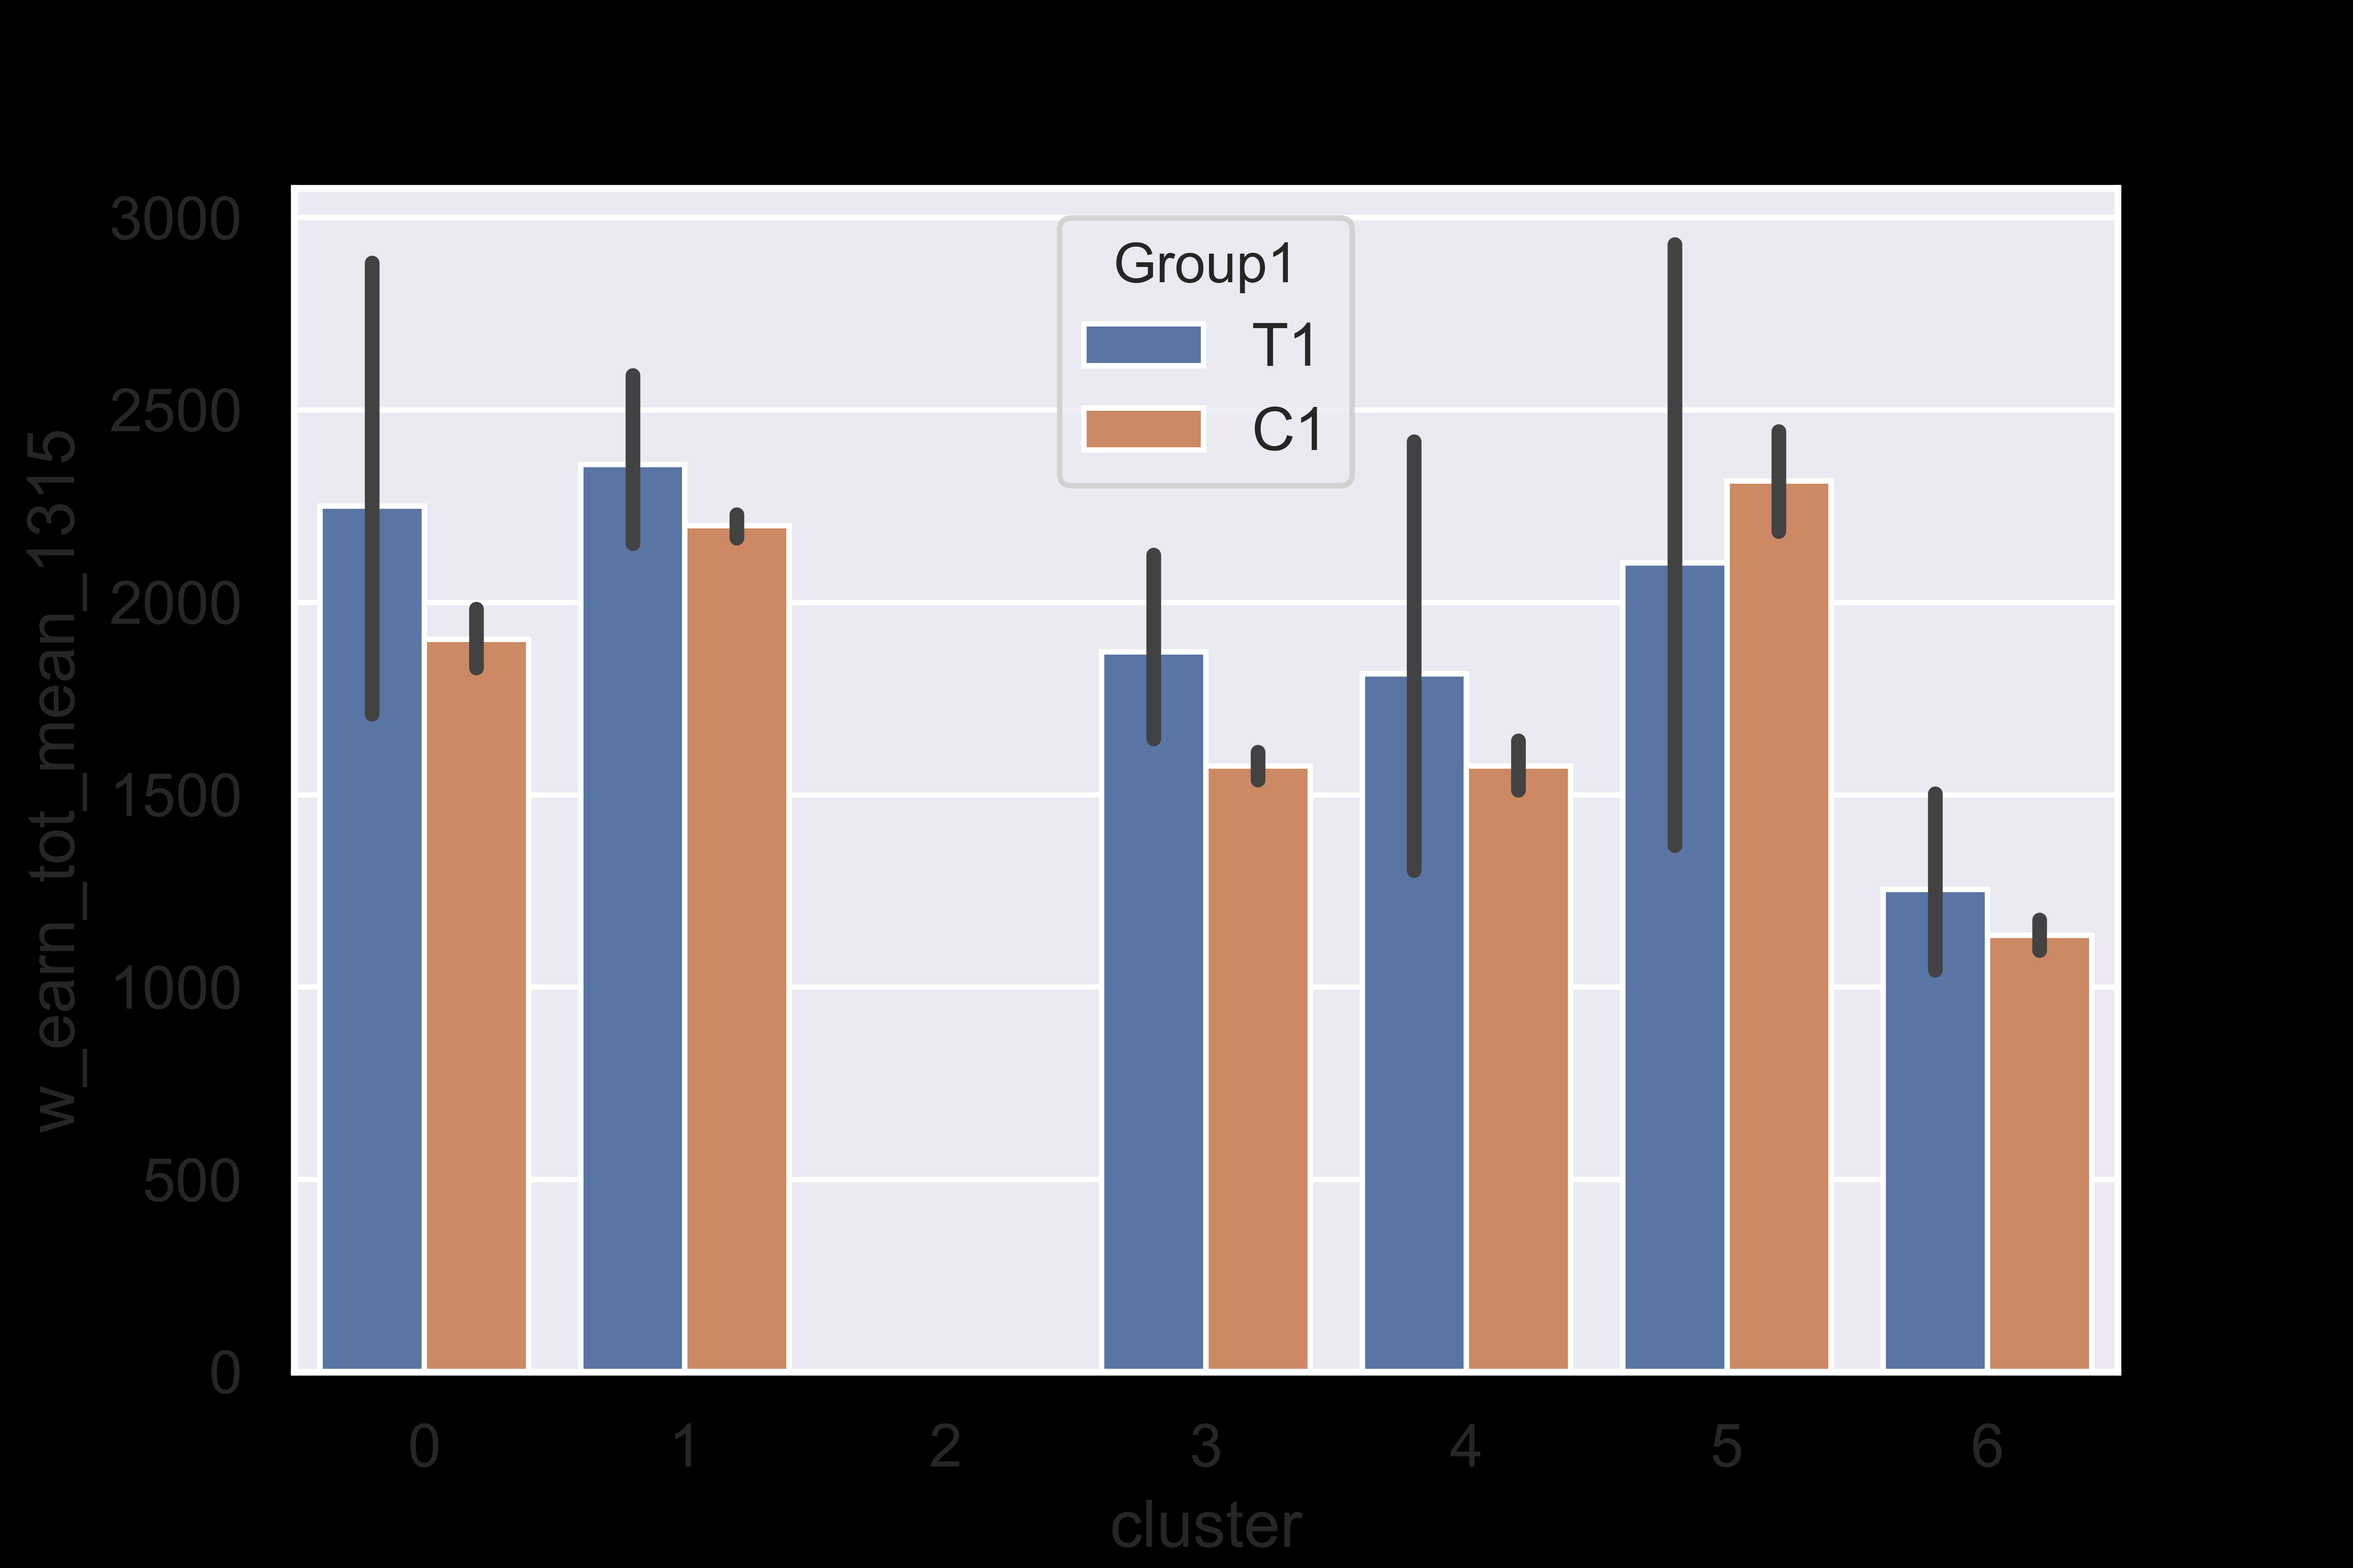
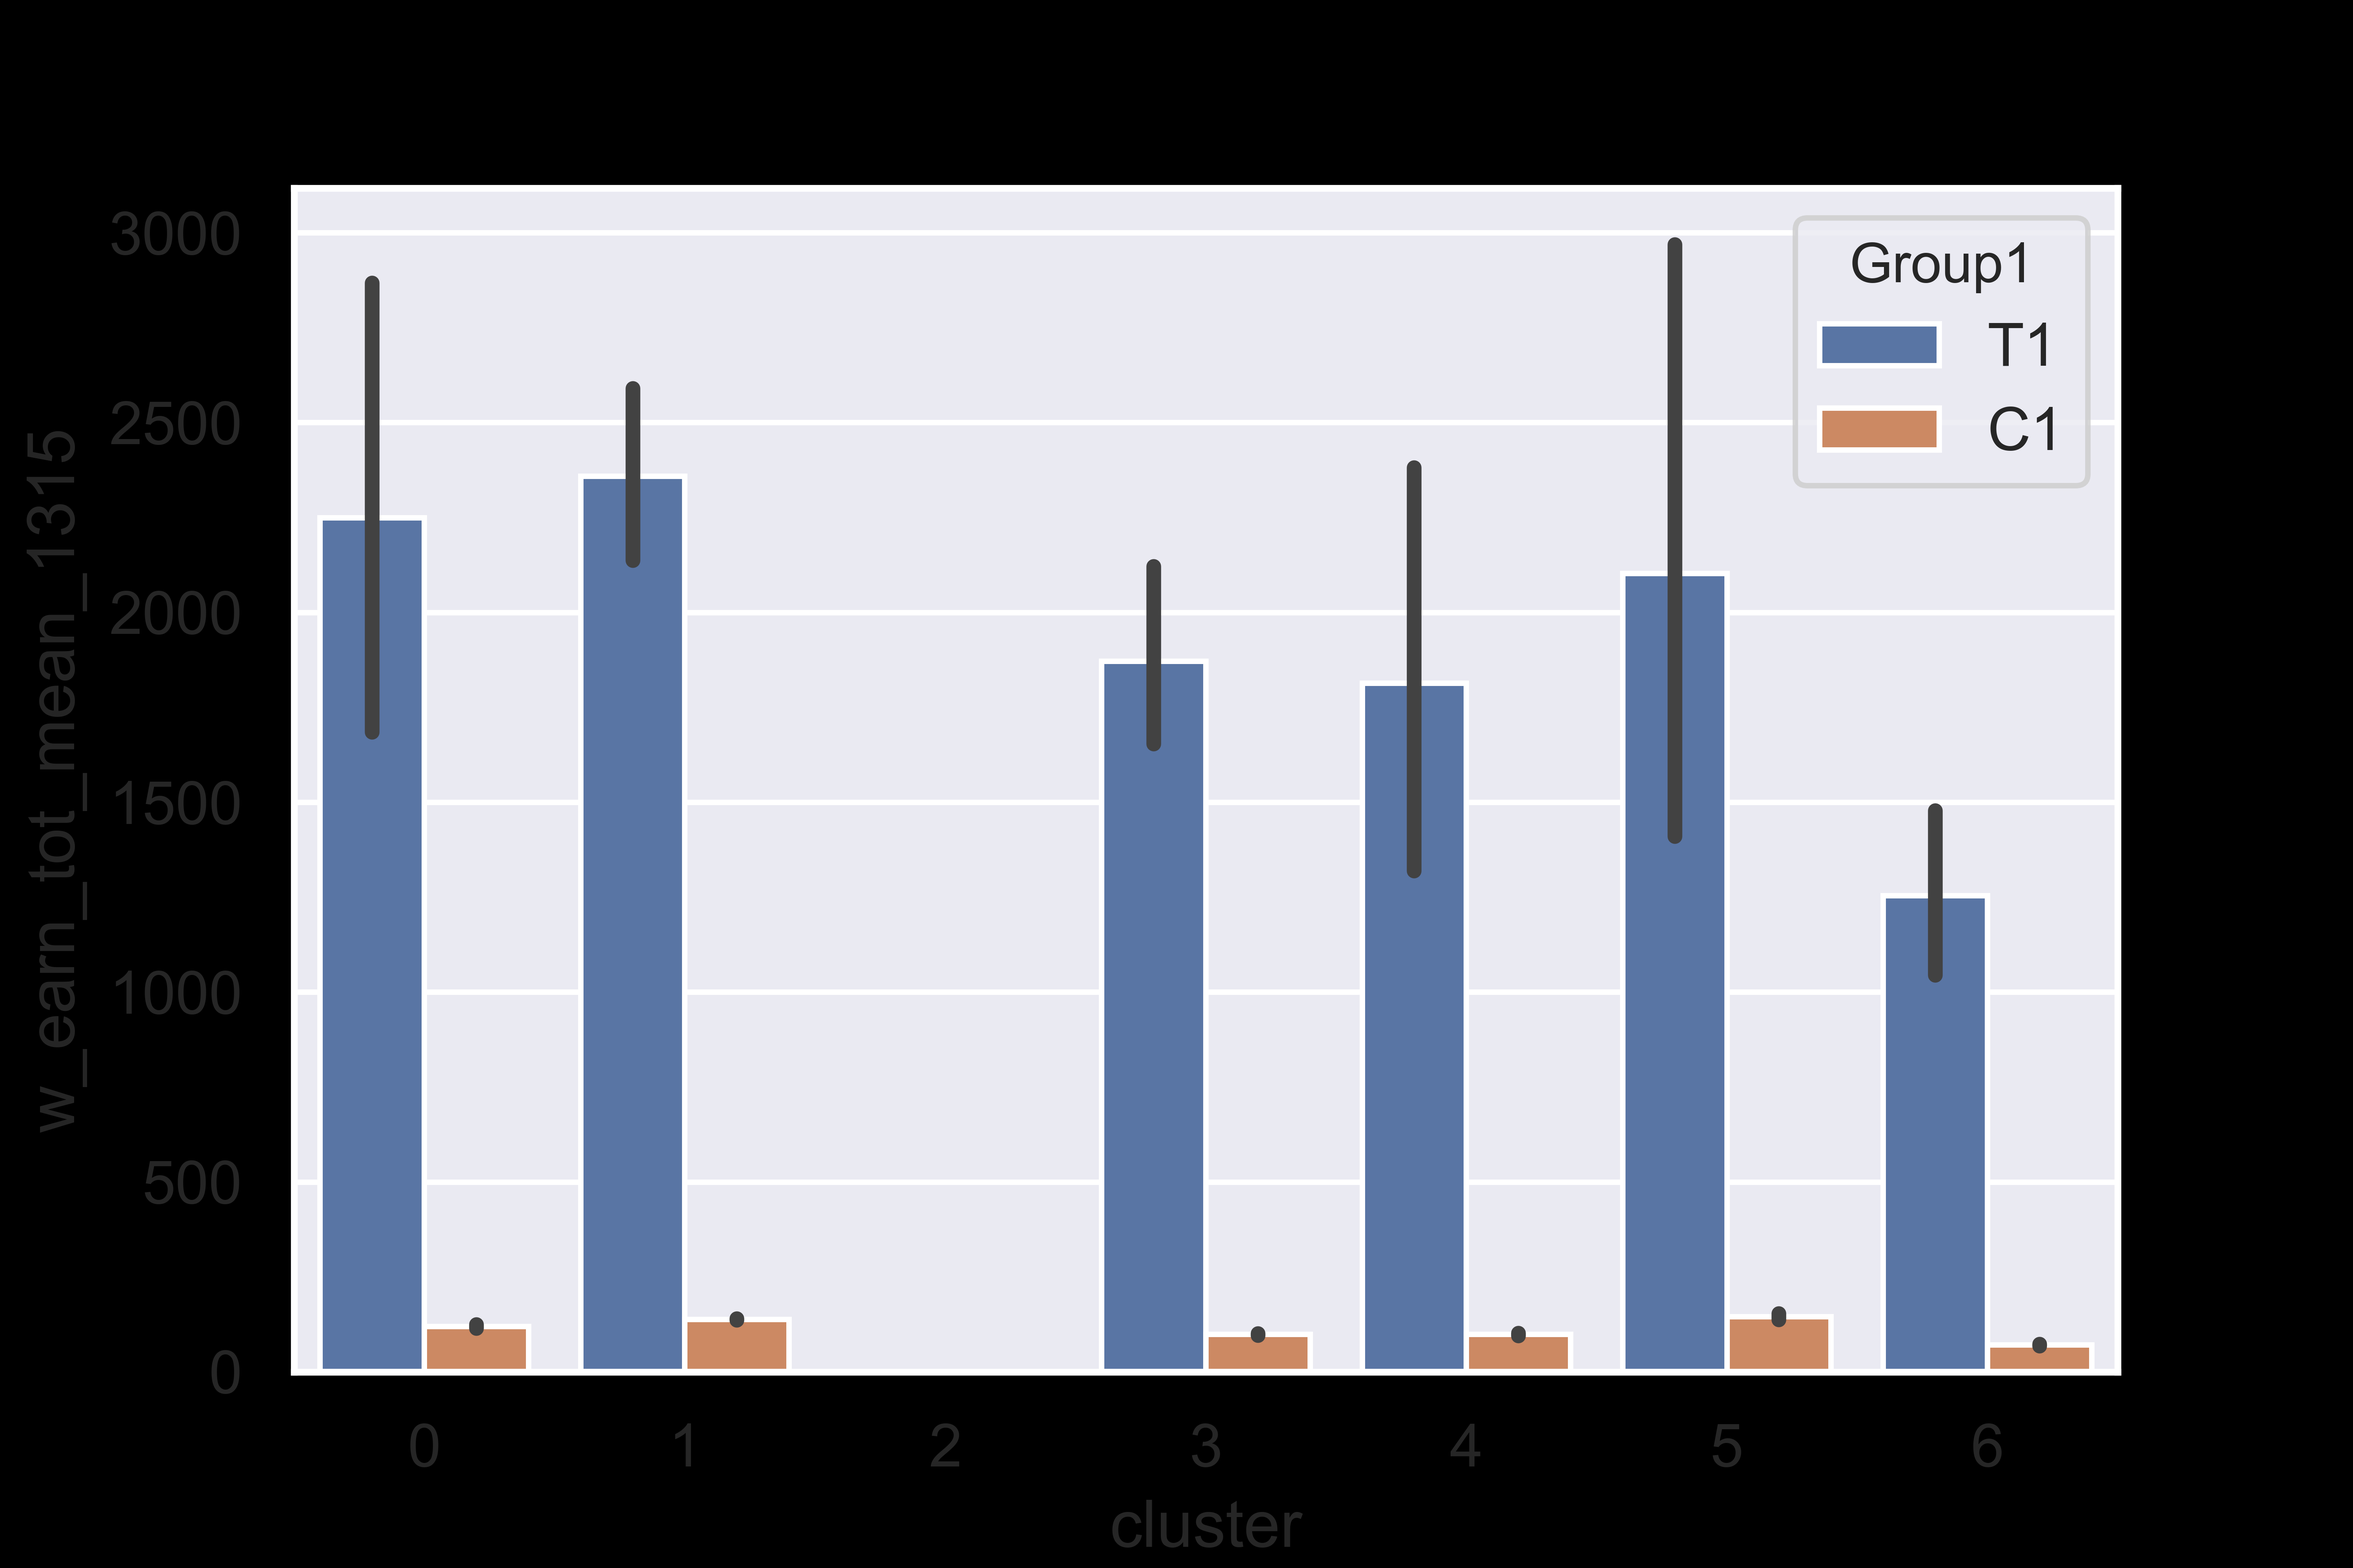
Now produces weighting for all periods

diff --git a/weighting.py b/weighting.py
@@ -1,5 +1,3 @@
-
-
 # %%
 from datetime import datetime
 
@@ -10,6 +8,8 @@ import pandas as pd
 import seaborn as sns  # package for plotting
 from IPython.display import HTML, display  # Make tables pretty
 
+from scipy import stats
+
 sns.set()
 
 
@@ -17,7 +17,7 @@ sns.set()
 # ## Import outcomes dataset and tidy up
 
 # %%
-df = pd.read_csv("jp_outcomes.zip")
+df = pd.read_csv("data/jp_outcomes.zip")
 
 
 # %%
@@ -32,145 +32,130 @@ for col in df.select_dtypes(include=numerics).columns:
 
 # %%
 # Tidy up T and C columns to make processing easier
+# Need to use multiindex!
 periods = []
 for i in range(1, 9):
-    this_period = 'period_'+str(i)
-    df[this_period] = df['Group'+str(i)].str[:1]
+    this_period = "period_" + str(i)
+    df[this_period] = df["Group" + str(i)].str[:1]
     periods.append(this_period)
 
 # Eliminate earlier T people from later period C
 for i in range(1, 9):
-    for j in range(i+1, 9):
-        df['period_'+str(j)].loc[df['period_'+str(i)] == 'T'] = 0
+    for j in range(i + 1, 9):
+        df["period_" + str(j)].loc[df["period_" + str(i)] == "T"] = 0
+
+# %%
+df.head()
+
+# %%
+# Remove outliers
+numeric_cols = [
+    col for col in df.columns.tolist() if col.startswith(("earn_", "sw_pay_"))
+]
+
+# df1 = df[(np.abs(stats.zscore(df[numeric_cols])) < 5).all(axis=1)]
 
 # %% [markdown]
 # ## Look - a group triangle!
 
 # %%
-grouped = df.groupby(periods)['id'].count()
+grouped = df.groupby(periods)["id"].count()
 grouped.sort_index(ascending=False, inplace=True)
 grouped
 
 
 # %% [markdown]
 # ## Add weights
-
+# This is just a global sort but needs to be replaced by a per-group classification function
+# called at the start of the binning/weighting code
 
 # %%
-# def create_ranks (df, sorting_function):
-"""
-Adds a ranking column to a dataframe based on a sorting function
-
-Given a ranking function and a dataframe with the columns needed for that
-ranking function, this function returns a ranking of all the rows.
-
-Parameters
-----------
-df : DataFrame
-    Dataframe with unique index and columns needed for rank_function
-sorting_function : function
-    A sorting algorithm which returns a sorted version of a given dataframe
-
-Returns
--------
-rank : Series
-    A pandas series with a unique rank for every row in df
-
-See Also
---------
-# List ranking algorithms here!
-
-"""
-# # do the actual stuff
-df = df.set_index([
-    # 'cluster',
-    'earn_tot_mean_1315',
-    'duration_days_0',
-    'id'])
+# Sort all records
+df = df.set_index(
+    [
+        # 'cluster',
+        "earn_tot_mean_1315",
+        "sw_pay_mean_1315",
+        "duration_days_0",
+        "id",
+    ]
+)
 df.sort_index(inplace=True)
 df.reset_index(inplace=True)
-df.index.name = 'rank'
+df.index.name = "rank"
 # # np.sum(df1.index.duplicated())
 df.reset_index(inplace=True)
-df.set_index('id', inplace=True)
-
-# return rank
+df.set_index("id", inplace=True)
 
 # %%
-# def create_bins (df, bin_method, bin_size, bin_number):
-"""
-Assigns records to bins, given a ranking and specified number or size of bins
+def add_weights(df, period):
+    # 1. Create scores
+    # Currently done above with global ranks but need to replace
 
+    # 2. Create bins based on scores
+    # Create a temporary df for T and C groups
+    df_T = df.loc[df[period] == "T"].copy()
+    df_C = df.loc[df[period] == "C"].copy()
 
+    # Split T group into equal sized bins
+    df_T["bin"], bins = pd.qcut(df_T["rank"], 100, retbins=True, labels=False)
 
-Parameters
-----------
-df: DataFrame
-    Must have T vs C column and ranks
-bin_method: String
-    "size" or "count"
-bin_size: int
-    Max or min?
-bin_count: int
-    Max or min
+    # Put C group into T bins based on T bin edges
+    df_C["bin"] = pd.cut(df_C["rank"], bins, labels=range(len(bins) - 1))
 
+    # Exclude unassigned C group members to eliminate outliers
+    df_C = df_C.dropna(subset=["bin"])
+    df_C["bin"] = df_C["bin"].astype("int")
 
-Returns
--------
-bin_col: Series
+    # 3. Add weights based on bins
+    # Create counts for T and C by bin
+    t_bin_counts = pd.Series(df_T.groupby("bin")["rank"].count(), name="t_bin_counts")
+    c_bin_counts = pd.Series(df_C.groupby("bin")["rank"].count(), name="c_bin_counts")
+    bin_counts = pd.concat([t_bin_counts, c_bin_counts], axis="columns")
 
-"""
-# # do the actual stuff
+    # Divide T by C to get weights for C group
+    bin_counts["abs_weight"] = bin_counts["t_bin_counts"] / bin_counts["c_bin_counts"]
+    c_total = df_C.shape[0]
+    t_total = df_T.shape[0]
+    bin_counts["weight"] = bin_counts["abs_weight"] * c_total / t_total
+
+    # All Ts have weight = 1
+    df_T["weight"] = 1
+    df_T["abs_weight"] = 1
+
+    # Assign C weights based on weights in bin_counts dataframe
+    # Have to reset and then set index to avoid losing it!
+    df_C = df_C.reset_index()
+    df_C = df_C.merge(bin_counts[["abs_weight", "weight"]], how="inner", on="bin")
+    df_C = df_C.set_index('id')
+
+    # Append T and C dataframes together
+    out_df = df_T.append(df_C)
+    out_df = out_df[["weight", "abs_weight"]]
+
+    return out_df
 
 # %%
-df_T = df.loc[df["Group1"] == "T1"].copy()
-df_C = df.loc[df["Group1"] == "C1"].copy()
+for period in periods:
+    w_df = add_weights(df, period)
+    w_df.columns = [period + '__' + str(col) for col in w_df.columns]
+    df = pd.concat([df, w_df], axis='columns')
 
-df_T["t_centile"], bins = pd.qcut(
-    df_T["rank"], 100, retbins=True, labels=False)
+df.info(verbose=True)
 
-df_C["t_centile"] = pd.cut(df_C["rank"], bins, labels=range(len(bins) - 1))
-# return bin_col
+# %%
+grouped = df.groupby(periods)["rank"].count()
+grouped.sort_index(ascending=False, inplace=True)
+grouped
 
-
-# def add_weights ()
-"""Create T, C, and X groups for all periods
-# In:       Whatever we've got already
-# Out:     [periods (1, 0, -)]
-
-
-# def get_weights_all_periods:
-# In:       df [periods] [weighting cols] weighting_score_fn, bin_fn
-# Out:     [period weight columns]
-
-# def get_weights:
-# In:      period, [weighting_cols], weighting_score_fn, bin_fn
-# Out:     weight, t_bin
-
-"""
-# 	1. Create ranks
-# 	2. Create T and C bins based on ranks
-# 	3. Add weights
-t_count = df_T["t_centile"].count()
-t_centile_weights = df_T.groupby(["t_centile"])[
-    "rank"].count().divide(t_count)
-df_T["weight"] = 1
-c_count = df_C["t_centile"].count()
-
-c_t_centile_weights = df_C.groupby(
-    ["t_centile"])["t_centile"].count().divide(c_count)
-c_weights = t_centile_weights / c_t_centile_weights
-df_C["weight"] = df_C["t_centile"].map(c_weights)
-
-df = df_T.append(df_C)
+# %%
+for period in periods:
+    aw_col = period + '__abs_weight'
+    print(df.groupby(period)[aw_col].sum())
 
 # %% [markdown]
 # ## Create weighted versions of background and outcome columns
 # %%
-numeric_cols = [
-    col for col in df.columns.tolist() if col.startswith(("earn_", "sw_pay_"))
-]
-
 for col in numeric_cols:
     df["w_" + col] = df[col] * df["weight"]
 
@@ -204,14 +189,6 @@ df["w_impact_income_diff"] = df["w_income_diff"] - df["income_diff"]
 # %% [markdown]
 # ## Descriptive statistics
 
-# %%
-# import sklearn.cross_validation.Bootstrap as bootstrap
-# import scipy
-# for col in w_numeric_cols:
-#     print(col,
-#     df.groupby('Group1')[col].apply(
-#         lambda x:bootstrap.ci(data=x, statfunction=scipy.mean)))
-
 # %% [markdown]
 # ### Weighting impact
 
@@ -222,9 +199,9 @@ df[["w_impact_sw_pay_mean_1315", "w_impact_earn_tot_mean_1315"]].hist(
 
 # %%
 f, ax = plt.subplots(dpi=1000)
-sns.scatterplot(x="t_centile", y="weight", hue="Group1", data=df)
+sns.scatterplot(x="bin", y="weight", hue="Group1", data=df)
 fig = ax.get_figure()
-fig.savefig("images/weights_by_centile.png")
+fig.savefig("images/weights_by_bin.png")
 ax.plot()
 
 # %% [markdown]
@@ -301,8 +278,7 @@ ax.plot()
 # %%
 
 f, ax = plt.subplots(dpi=1000)
-sns.scatterplot(x="sw_pay_mean_1315", y="earn_tot_mean_1315",
-                hue="Group1", data=df)
+sns.scatterplot(x="sw_pay_mean_1315", y="earn_tot_mean_1315", hue="Group1", data=df)
 ax.set_yscale("symlog")
 fig = ax.get_figure()
 fig.savefig("images/earnings_vs_sw_pay.png")
@@ -311,8 +287,7 @@ ax.plot()
 # %%
 
 f, ax = plt.subplots(dpi=1000)
-sns.scatterplot(x="w_sw_pay_mean_1315",
-                y="w_earn_tot_mean_1315", hue="Group1", data=df)
+sns.scatterplot(x="w_sw_pay_mean_1315", y="w_earn_tot_mean_1315", hue="Group1", data=df)
 ax.set_yscale("symlog")
 fig = ax.get_figure()
 fig.savefig("images/w_earnings_vs_sw_pay.png")
